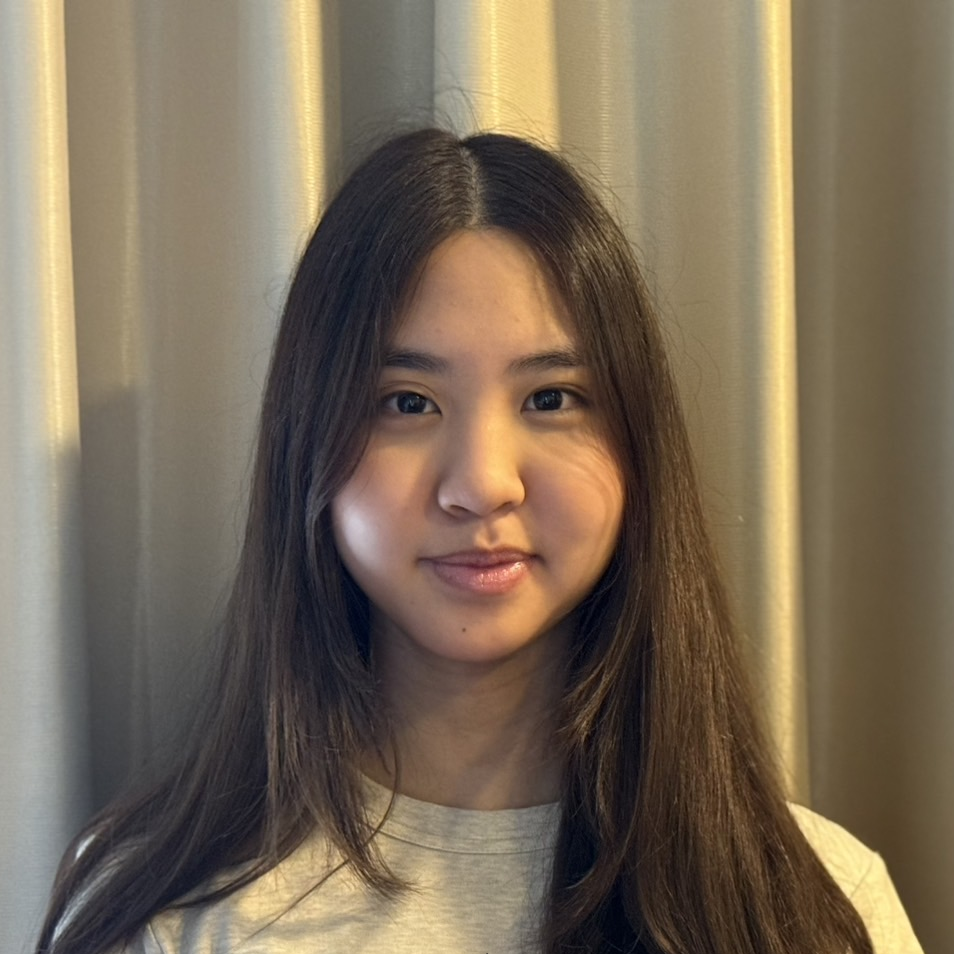
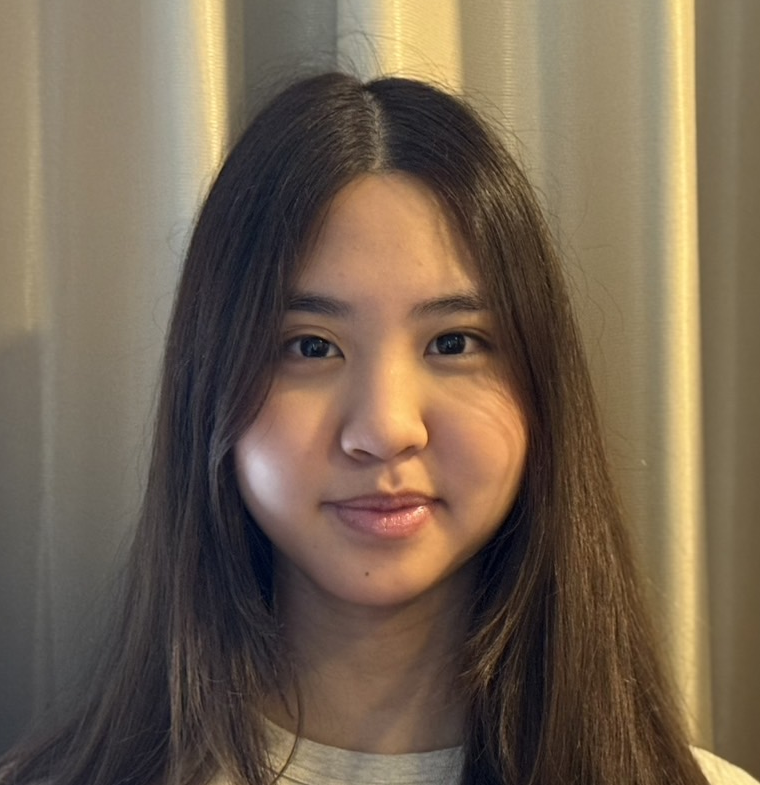
Add member pics

diff --git a/src/content/team.ts b/src/content/team.ts
@@ -7,6 +7,11 @@ export const team = [
   {
     name: "Acelynn Saisuphaluck",
     role: "Project Coordinator - BY2S USA",
-    image: "/images/team/placeholder.png",
+    image: "/images/team/acelynn-sai.png",
+  },
+  {
+    name: "Noah Lim",
+    role: "Project Coordinator - BY2S USA",
+    image: "/images/team/noah-lim.png",
   },
 ]; 
